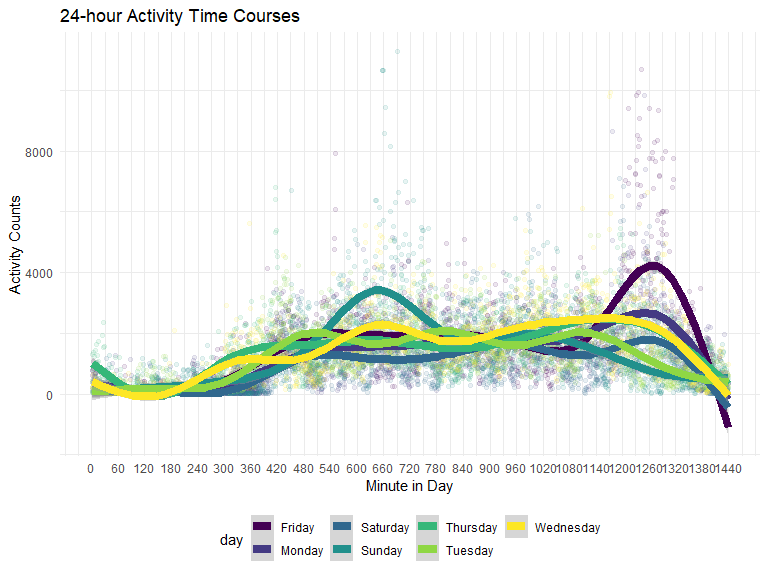
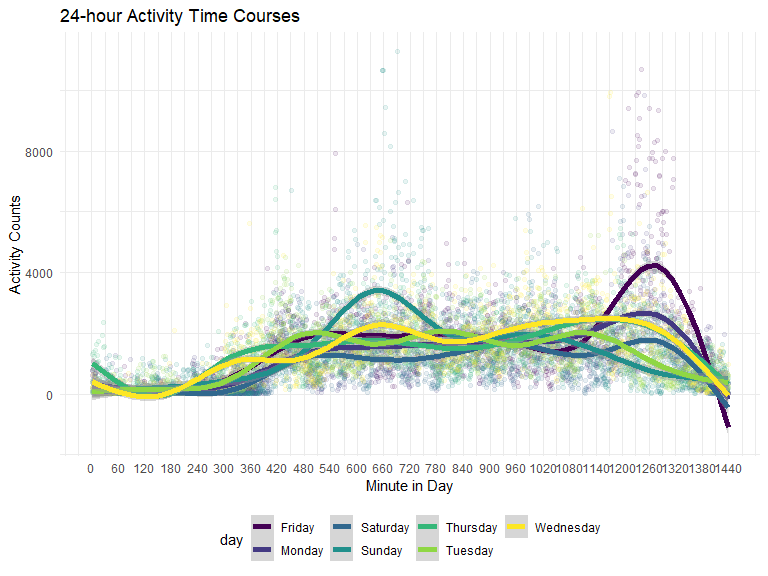
Finished part of problem 3

diff --git a/p8105_hw3_sl5232.md b/p8105_hw3_sl5232.md
@@ -237,7 +237,7 @@ accel_df %>%
   distinct(day, activity_number, minute_counts) %>%  
   ggplot(aes(x = activity_number, y = minute_counts, color = day)) + 
   geom_point(alpha = 0.1) +
-  geom_smooth(se = TRUE, size = 3) +
+  geom_smooth(se = TRUE, size = 2) +
   labs(
     title = "24-hour Activity Time Courses",
     x = "Minute in Day",
@@ -261,3 +261,57 @@ peaks of activity counts at around 660 minutes and 1260 minutes,
 respectively. Thus we can conclude that activity counts are closely
 linked to the status of the individual wearing the accelerometer, the
 activity counts are high when he is awake and low when he goes to bed.
+
+## Problem 3
+
+``` r
+library(p8105.datasets)
+data("ny_noaa")
+```
+
+There are 2595176 rows and 7 columns of data in this dataset. The
+content of this dataset are statistics from weather stations in New York
+State. Varaibles in this dataset include the weather station ID, date of
+the weather data, and other weather statistics including
+precipitation(prcp), snowfall(snow), snow depth(snwd), tmax and tmin.
+There are a lot of missing data entires in this dataset, so it would be
+an issue to try to directly visualize this dataset.
+
+``` r
+ny_noaa = ny_noaa %>% 
+  janitor::clean_names() %>% 
+  separate(date, into = c("year", "month", "day"), sep = "-") %>%
+  mutate(
+    year = as.numeric(year),
+    month = as.numeric(month),
+    day = as.numeric(day),
+    tmax = as.numeric(tmax),
+    tmin = as.numeric(tmin),
+  ) 
+```
+
+``` r
+ny_noaa %>% 
+  count(snow) %>%
+  arrange(desc(n))
+```
+
+    ## # A tibble: 282 × 2
+    ##     snow       n
+    ##    <int>   <int>
+    ##  1     0 2008508
+    ##  2    NA  381221
+    ##  3    25   31022
+    ##  4    13   23095
+    ##  5    51   18274
+    ##  6    76   10173
+    ##  7     8    9962
+    ##  8     5    9748
+    ##  9    38    9197
+    ## 10     3    8790
+    ## # … with 272 more rows
+
+For snowfall, the most commonly observed value is 0, this is because of
+the fact that New York State don’t have snows all year round, most of
+the times there are no snow at all in a day so the most commonly
+observed value for snowfall is 0.
